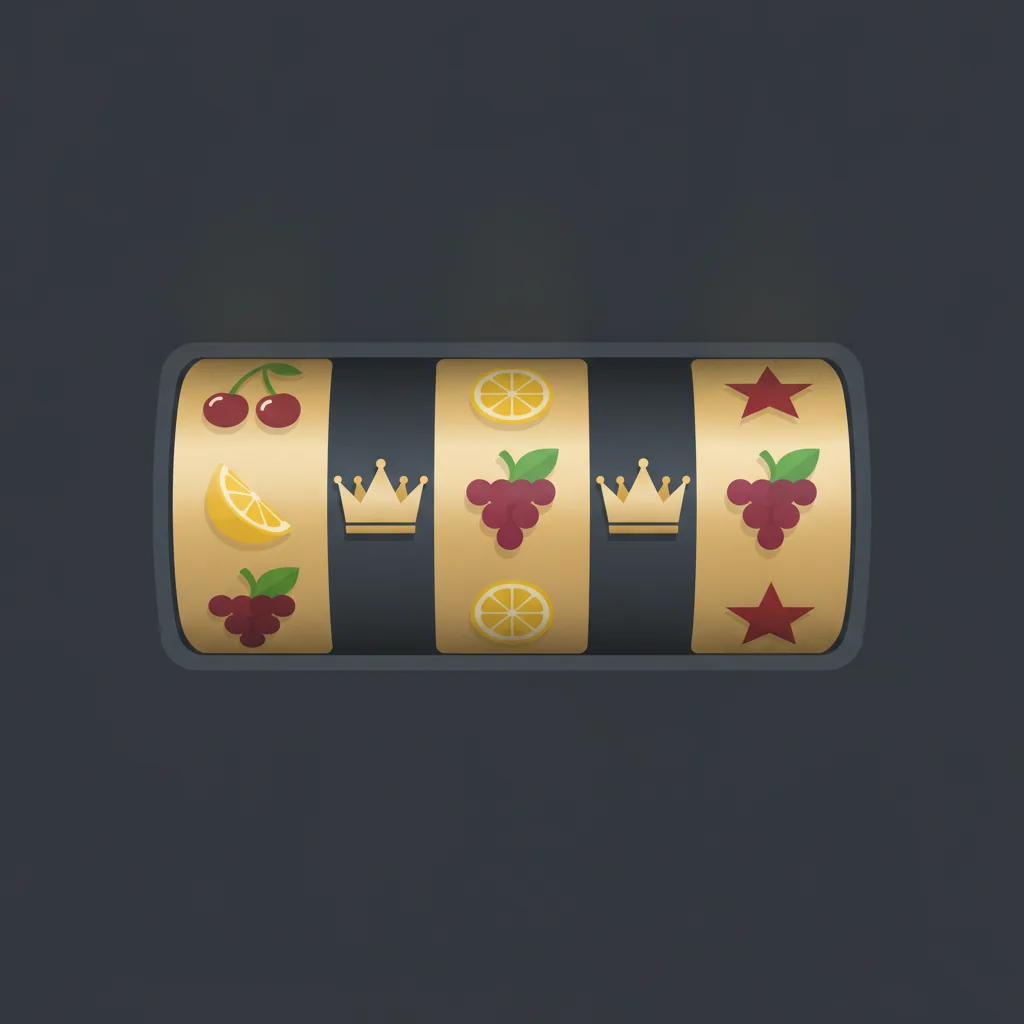
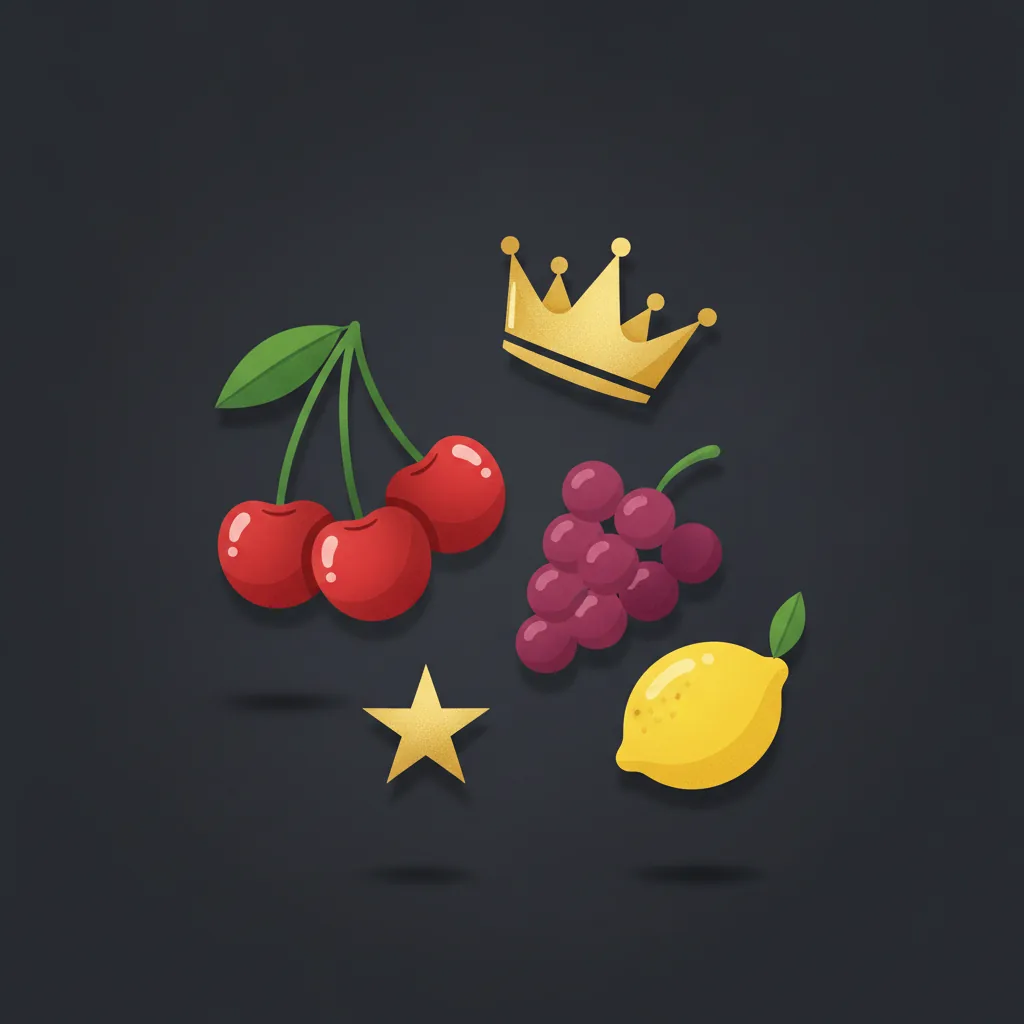
content(shining-crown): image fix pass 2 (abstract hero, accurate alt) + review 2 (best 100 PASS) + verification + log
Claude-Session: https://claude.ai/code/session_01T5UefzpN7w5wcUVJrEQSxj

Changed region(s): [[0.125, 0.2188, 0.875, 0.7812], [0.6562, 0.8438, 0.7188, 0.875]]

diff --git a/VsichkiKazina/articles/2026-09-09-shining-crown/06-verification.md b/VsichkiKazina/articles/2026-09-09-shining-crown/06-verification.md
@@ -1,0 +1,25 @@
+# 06 — Verification · Shining Crown: RTP и характеристики (EGT/Amusnet)
+
+vk-0026 · type: guide (game explainer, public game data) · byline: Георги Тодоров · brand: Всички Казина
+
+## Surviving flags
+**None in the text.** Written as a game explainer on public provider/game data (amusnet.com, game databases); no operator T&C, no НАП licence, no tax claims, no affiliate link. The one genuine ambiguity — volatility rating — is handled in-text as a stated range ("ниска до средна, оценките по базите се разминават, от „ниска" до „средна към висока"), not a dangling flag or a Version A/B structure.
+
+## Time-sensitive / factual claims + sources (web-verified)
+- Released **2014** by EGT (now Amusnet); classic 5-reel / 3-row fruit slot, **10 fixed lines** — freeslots99, AskGamblers, SlotCatalog-family game pages.
+- **RTP 96.37%** default build; configurable builds exist (EGT ships multiple RTP versions); derivatives 40 Shining Crown ~**95.98%**, Shining Crown Cash Heat up to ~**96.50%** — game databases (verified; operator may run a different build → stated honestly in text).
+- Max line win **5 000×** (five red sevens); crown = wild, stretches vertically on reels 2/3/4; star scatter (reels 1/3/5) + dollar ($) scatter pay from any position; no free spins in the original; Gamble hi-lo to **5** consecutive; Jackpot Cards network progressive, **4 levels** by suit (spades highest), random trigger — provider/game-database sources.
+
+## Recalculation (working shown)
+**House edge from RTP.** RTP 96.37% means long-run return 96.37 € per 100 € staked; the house keeps 100 − 96.37 = **3.63%**, i.e. ≈ **3.6 цента per 1 € staked**, averaged over hundreds of thousands of spins. Matches the text ("задържа средно около 3.6 цента").
+
+## Gemini Step-7 (text, cross-model)
+Model gemini-3.1-pro-preview. Initial HL 25 ("Shows AI patterns 75%") → Humaniser pass 1 → **HL 85 ("Likely human-written 85%") PASS**. Kept pass 1 (highest HL). content-queue `gemini` = **human 85**. Trail: 07-gemini-check-1.md, 07-gemini-check-2.md.
+
+## Images (Step 8)
+**2 images.** Infographic `shining-crown-harakteristiki-infografika.svg` (every figure traces to 05b; Gemini **100/100**) + decorative hero `shining-crown-plodov-slot-hero.webp` (20.7 KB WebP). Review pass 1 score 35 (hero fabricated a slot-machine UI = integrity failure) → regenerated the hero as an abstract fruit/crown composition (no reels/UI) + corrected its alt → pass 2 **100 (infographic) / 90 (hero) PASS**, no integrity failures. `images: 2 (infographic 100, hero 90 — best 100)`.
+
+## Brand gate
+Gate report 05-gate-report.md: **95/100**, PASS WITH FIXES, 0 surviving criticals. Byline Георги Тодоров, brand "Всички Казина", verbatim 18+/RG/affiliate footer, zero em-dashes in body+footer, 3 approved internal links (/otgovorna-igra/, /kazino-igri/, /kak-ocenyavame/). Honest angle: RTP is long-run not a promise; configurable builds mean the operator picks the number; the progressive and the Gamble do not improve base odds; fruit-slot simplicity ≠ better chances. Anti-cannibalization: clean pillar, no Shining Crown page in the sitemap; anchors conceptually to the Amusnet profile (vk-0021); game explainer → no affiliate link.
+
+**Human owns Step 6 (approval) and publishing. Do not merge/post automatically.**

diff --git a/VsichkiKazina/articles/2026-09-09-shining-crown/08-image-review-2.md b/VsichkiKazina/articles/2026-09-09-shining-crown/08-image-review-2.md
@@ -1,0 +1,14 @@
+# Gemini image review — pass 2 (after hero regeneration)
+
+Images: `shining-crown-harakteristiki-infografika.svg` (100/100 PASS), `shining-crown-plodov-slot-hero.webp` (90/100 PASS).
+Model: gemini-3.1-pro-preview · **best score 100 · PASS · no integrity failure.**
+
+The integrity failure from pass 1 (fabricated slot-machine UI) is resolved: the regenerated hero is an abstract composition of floating fruit symbols + crown + star on a dark background, with no reels, grid, or game interface. Infographic unchanged (publish-ready). Hero alt in 05b updated to match the abstract image (removed "върху барабани").
+
+Kept (best score 100). images: 2 (infographic 100, hero 90 — best 100).
+
+---
+
+**Infographic (SVG) — 100/100 PASS:** synthesises the key specs; every number/fact (5x3, 10 линии, 96.37% RTP, 3.6 цента, 5000x, scatter/wild reels, jackpot levels) matches the text exactly; clean, no fake UI/logos; 18+ line present; descriptive filename + aria-label. Publish-ready, no changes.
+
+**Hero (raster) — 90/100 PASS:** good thematic hero showing the game's symbols (crown, star, grapes, cherries, lemon) with no fake UI, faces, brands, or glamorised winning; stylised and clean. Only note: alt text said "върху барабани" but the image shows floating symbols on a dark background with no reels — **fixed** by updating the alt to "Стилизирани летящи плодови символи, корона и звезда на тъмен фон, декоративна метафора за слота Shining Crown".

diff --git a/VsichkiKazina/articles/2026-09-09-shining-crown/05b-final-draft.md b/VsichkiKazina/articles/2026-09-09-shining-crown/05b-final-draft.md
@@ -5,7 +5,7 @@ Meta description: Shining Crown на EGT/Amusnet: 5x3, 10 линии, RTP 96.37%
 
 # Shining Crown: RTP и характеристики на класиката от EGT/Amusnet
 
-![Класически плодов слот с корона и звезда върху барабани, стилизирана метафора за Shining Crown](images/shining-crown-plodov-slot-hero.webp)
+![Стилизирани летящи плодови символи, корона и звезда на тъмен фон, декоративна метафора за слота Shining Crown](images/shining-crown-plodov-slot-hero.webp)
 
 Shining Crown изглежда като автомат от кварталното казино отпреди двайсет години, и точно това е идеята. EGT (днес Amusnet) я пуска през 2014 г. като чиста плодова ротативка: череши, лимони, грозде, седмица, звезда и корона върху пет барабана и три реда. Короната дава името и върши най-интересната работа, но под познатия плодов капак стои същата математика като при всяка друга ротативка. Простите символи не правят шансовете ти по-добри, колкото и да подсказва носталгията.
 
